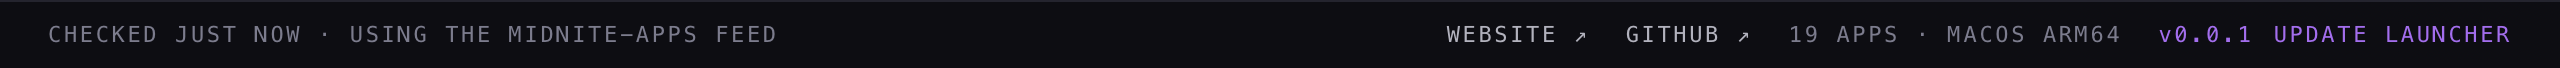
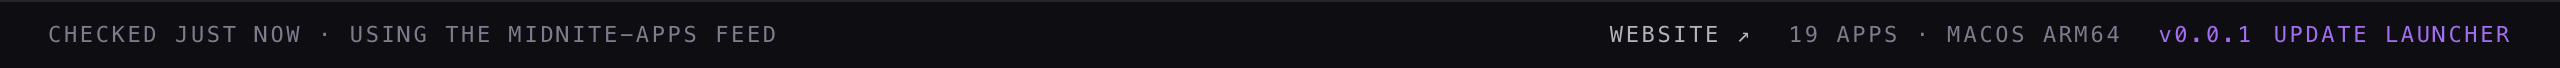
fix(launcher): self-update review fixes — refuse sudo installs up front, surface installer failures, guard in-flight installs; drop the footer GitHub link

Changed region(s): [[0.5625, 0.3824, 0.6875, 0.6176]]

diff --git a/apps/launcher/src/main/self-update.ts b/apps/launcher/src/main/self-update.ts
@@ -1,9 +1,9 @@
 import { spawn as nodeSpawn } from 'node:child_process';
-import { closeSync, mkdirSync, openSync } from 'node:fs';
+import { accessSync, closeSync, constants, existsSync, mkdirSync, openSync } from 'node:fs';
 import { dirname } from 'node:path';
 
 import type { LauncherResult, LauncherSelfStatus } from '../common/bridge';
-import { LAUNCHER_FEED_URL, LAUNCHER_INSTALL_URL } from './constants';
+import { INSTALL_DIR, LAUNCHER_BUNDLE_PATH, LAUNCHER_INSTALL_URL, LAUNCHER_VERSION_URL } from './constants';
 import { fetchLatestRelease } from './feed';
 
 /**
@@ -20,7 +20,7 @@ import { fetchLatestRelease } from './feed';
 export async function launcherSelfStatus(
   deps: { current: string; isPackaged: boolean; fetchImpl?: typeof fetch },
 ): Promise<LauncherSelfStatus> {
-  const feed = await fetchLatestRelease(LAUNCHER_FEED_URL, deps.fetchImpl);
+  const feed = await fetchLatestRelease(LAUNCHER_VERSION_URL, deps.fetchImpl);
   return { current: deps.current, latest: feed.release, feedError: feed.error, canUpdate: deps.isPackaged };
 }
 
@@ -28,7 +28,11 @@ type SpawnLike = (
   command: string,
   args: readonly string[],
   options: { detached: boolean; stdio: ['ignore', number, number]; env: NodeJS.ProcessEnv },
-) => { unref(): void; once(event: 'error', listener: (error: Error) => void): unknown };
+) => {
+  unref(): void;
+  once(event: 'error', listener: (error: Error) => void): unknown;
+  once(event: 'exit', listener: (code: number | null) => void): unknown;
+};
 
 export type SelfUpdateDeps = {
   isPackaged: boolean;
@@ -36,27 +40,54 @@ export type SelfUpdateDeps = {
   logPath: string;
   spawn?: SpawnLike;
   env?: NodeJS.ProcessEnv;
+  /** Whether this user can write `path` — `install.sh`'s own `[ -w ]` test, which decides whether it needs sudo. */
+  isWritable?: (path: string) => boolean;
+  /** The installer exited non-zero; on success it quits this app, so nobody is left to hear about it. */
+  onFailed?: (message: string) => void;
 };
+
+function writable(path: string): boolean {
+  try {
+    accessSync(path, constants.W_OK);
+    return true;
+  } catch {
+    return false;
+  }
+}
+
+/** The variables `install.sh` reads; inherited from a shell they would pin a version or skip the reopen. */
+const INSTALLER_ENV = ['MIDNITE_LAUNCHER_NO_OPEN', 'MIDNITE_LAUNCHER_VERSION'];
 
 /** The URL is an argument (`$1`), never spliced into the script string. */
 export const SELF_UPDATE_SCRIPT = 'curl -fsSL "$1" | sh';
 
 export function startSelfUpdate(deps: SelfUpdateDeps): LauncherResult {
   if (!deps.isPackaged) return { ok: false, message: 'A dev run cannot update itself — build and install the launcher instead.' };
+  const isWritable = deps.isWritable ?? writable;
+  // Detached, with no terminal, `sudo` cannot prompt — and install.sh would only find that out after
+  // it had already quit this app. So the case that needs a password is refused up front.
+  if (!isWritable(INSTALL_DIR) || (existsSync(LAUNCHER_BUNDLE_PATH) && !isWritable(LAUNCHER_BUNDLE_PATH))) {
+    return {
+      ok: false,
+      message: `Updating needs an administrator password here — run \`curl -fsSL ${LAUNCHER_INSTALL_URL} | sh\` in Terminal.`,
+    };
+  }
   const spawn = deps.spawn ?? (nodeSpawn as unknown as SpawnLike);
   let log: number | null = null;
   try {
     mkdirSync(dirname(deps.logPath), { recursive: true });
     log = openSync(deps.logPath, 'a');
-    // `MIDNITE_LAUNCHER_NO_OPEN` would leave the user with no launcher at all after it quits.
     const env = { ...(deps.env ?? process.env) };
-    delete env['MIDNITE_LAUNCHER_NO_OPEN'];
+    for (const name of INSTALLER_ENV) delete env[name];
     const child = spawn('/bin/sh', ['-c', SELF_UPDATE_SCRIPT, 'sh', LAUNCHER_INSTALL_URL], {
       detached: true,
       stdio: ['ignore', log, log],
       env,
     });
-    child.once('error', () => undefined);
+    child.once('error', (error) => deps.onFailed?.(`The update could not start: ${error.message}`));
+    child.once('exit', (code) => {
+      if (code !== 0) deps.onFailed?.(`The update failed (exit ${code ?? 'signal'}) — see ${deps.logPath}.`);
+    });
     child.unref();
     return { ok: true };
   } catch (error) {

diff --git a/apps/launcher/src/renderer/app.tsx b/apps/launcher/src/renderer/app.tsx
@@ -69,13 +69,22 @@ export function App() {
   const [removingAll, setRemovingAll] = useState(false);
   const [toast, setToast] = useState<{ message: string; tone: 'error' | 'info' } | null>(null);
   const [self, setSelf] = useState<LauncherSelfStatus | null>(null);
-  const [selfBannerDismissed, setSelfBannerDismissed] = useState(false);
+  /** The version whose banner was dismissed — a newer one found by Check again shows again. */
+  const [selfBannerDismissed, setSelfBannerDismissed] = useState<string | null>(null);
   const [selfUpdating, setSelfUpdating] = useState(false);
 
   const checkSelf = useCallback(() => {
     void bridge.self.status().then(setSelf, () => undefined);
   }, [bridge]);
   useEffect(checkSelf, [checkSelf]);
+  useEffect(
+    () =>
+      bridge.self.onFailed((message) => {
+        setSelfUpdating(false);
+        setToast({ message, tone: 'error' });
+      }),
+    [bridge],
+  );
 
   // A `midnite://` link for an app that cannot open yet lands here: its detail sheet, which is where Install lives.
   useEffect(() => {
@@ -178,6 +187,17 @@ export function App() {
     });
   };
   const selfBehind = self?.latest != null && compareVersions(self.latest.version, self.current) > 0;
+  // install.sh quits this app, which would cut an app install off half-written.
+  const anyInstalling = APPS.some((app) => viewOf(app).installing);
+  const selfUpdateDisabled = self === null || !self.canUpdate || selfUpdating || anyInstalling;
+  const selfUpdateTitle =
+    self?.canUpdate === false
+      ? 'A dev run cannot update itself'
+      : anyInstalling
+        ? 'Wait for the install in progress to finish'
+        : selfBehind
+          ? `Update to Midnite Apps ${self?.latest?.version}`
+          : 'Re-install the latest Midnite Apps';
 
   const removable = useMemo(() => removableApps(viewOf), [viewOf]);
   // One at a time, through the same per-app ops as each tile's own Move to Trash, so every guard
@@ -255,15 +275,15 @@ export function App() {
       </header>
 
       <main className="content">
-        {selfBehind && !selfBannerDismissed && self?.latest && (
+        {selfBehind && self?.latest && selfBannerDismissed !== self.latest.version && (
           <div className="banner" role="status">
             <span className="pill pill-solid">Update</span>
             <span className="banner-text">Midnite Apps {self.latest.version} is available.</span>
             <div className="banner-actions">
-              <button type="button" className="btn btn-primary btn-compact" onClick={updateSelf} disabled={selfUpdating || !self.canUpdate}>
+              <button type="button" className="btn btn-primary btn-compact" onClick={updateSelf} disabled={selfUpdateDisabled} title={selfUpdateTitle}>
                 {selfUpdating ? 'Updating…' : 'Update launcher'}
               </button>
-              <button type="button" className="btn btn-icon" aria-label="Dismiss" onClick={() => setSelfBannerDismissed(true)}>
+              <button type="button" className="btn btn-icon" aria-label="Dismiss" onClick={() => setSelfBannerDismissed(self.latest?.version ?? null)}>
                 <LuX size={14} />
               </button>
             </div>
@@ -349,9 +369,6 @@ export function App() {
           <button type="button" className="link eyebrow" onClick={() => void bridge.links.open('website')}>
             Website ↗
           </button>
-          <button type="button" className="link eyebrow" onClick={() => void bridge.links.open('github')}>
-            GitHub ↗
-          </button>
           <span className="eyebrow">
             {APPS.length} apps · macOS {bridge.platform.arch}
           </span>
@@ -363,8 +380,8 @@ export function App() {
               type="button"
               className="link eyebrow"
               onClick={updateSelf}
-              disabled={selfUpdating || self?.canUpdate === false}
-              title={self?.canUpdate === false ? 'A dev run cannot update itself' : 'Re-install the latest Midnite Apps'}
+              disabled={selfUpdateDisabled}
+              title={selfUpdateTitle}
             >
               {selfUpdating ? 'Updating…' : 'Update launcher'}
             </button>

diff --git a/apps/launcher/src/main/self-update.test.ts b/apps/launcher/src/main/self-update.test.ts
@@ -16,9 +16,15 @@ afterEach(async () => {
 
 function fakeSpawn() {
   const unref = vi.fn();
-  const spawn = vi.fn(() => ({ unref, once: vi.fn() }));
-  return { spawn, unref };
+  const listeners = new Map<string, (arg: never) => void>();
+  const spawn = vi.fn(() => ({
+    unref,
+    once: (event: string, listener: (arg: never) => void) => void listeners.set(event, listener),
+  }));
+  return { spawn, unref, emit: (event: 'exit' | 'error', arg: unknown) => listeners.get(event)?.(arg as never) };
 }
+
+const writable = () => true;
 
 describe('startSelfUpdate', () => {
   it('refuses in a dev run and spawns nothing', () => {
@@ -34,7 +40,8 @@ describe('startSelfUpdate', () => {
       isPackaged: true,
       logPath: join(dir, 'logs', 'self-update.log'),
       spawn,
-      env: { PATH: '/usr/bin:/bin', MIDNITE_LAUNCHER_NO_OPEN: '1' },
+      isWritable: writable,
+      env: { PATH: '/usr/bin:/bin', MIDNITE_LAUNCHER_NO_OPEN: '1', MIDNITE_LAUNCHER_VERSION: '0.0.3' },
     });
     expect(result).toEqual({ ok: true });
     expect(spawn).toHaveBeenCalledTimes(1);
@@ -42,7 +49,7 @@ describe('startSelfUpdate', () => {
     expect(command).toBe('/bin/sh');
     expect(args).toEqual(['-c', SELF_UPDATE_SCRIPT, 'sh', 'https://midnite-apps.vercel.app/install.sh']);
     expect(options.detached).toBe(true);
-    // The installer reopens the launcher it quit — an inherited NO_OPEN would leave none running.
+    // An inherited NO_OPEN would leave no launcher running; an inherited VERSION would pin an old one.
     expect(options.env).toEqual({ PATH: '/usr/bin:/bin' });
     expect(unref).toHaveBeenCalled();
   });
@@ -51,7 +58,29 @@ describe('startSelfUpdate', () => {
     const spawn = vi.fn(() => {
       throw new Error('EAGAIN');
     });
-    expect(startSelfUpdate({ isPackaged: true, logPath: join(dir, 'self-update.log'), spawn })).toEqual({ ok: false, message: 'EAGAIN' });
+    expect(startSelfUpdate({ isPackaged: true, logPath: join(dir, 'self-update.log'), spawn, isWritable: writable })).toEqual({
+      ok: false,
+      message: 'EAGAIN',
+    });
+  });
+
+  it('refuses up front when the install needs sudo, which a detached installer cannot prompt for', () => {
+    const { spawn } = fakeSpawn();
+    const result = startSelfUpdate({ isPackaged: true, logPath: join(dir, 'self-update.log'), spawn, isWritable: () => false });
+    expect(result.ok).toBe(false);
+    expect(result.ok === false && result.message).toMatch(/administrator password.*curl -fsSL https:\/\/midnite-apps\.vercel\.app\/install\.sh \| sh/);
+    expect(spawn).not.toHaveBeenCalled();
+  });
+
+  it('reports an installer that exits non-zero, and stays quiet on success', () => {
+    const { spawn, emit } = fakeSpawn();
+    const onFailed = vi.fn();
+    const logPath = join(dir, 'self-update.log');
+    startSelfUpdate({ isPackaged: true, logPath, spawn, isWritable: writable, onFailed });
+    emit('exit', 0);
+    expect(onFailed).not.toHaveBeenCalled();
+    emit('exit', 22);
+    expect(onFailed).toHaveBeenCalledWith(`The update failed (exit 22) — see ${logPath}.`);
   });
 });
 

diff --git a/apps/launcher/src/renderer/app.test.tsx b/apps/launcher/src/renderer/app.test.tsx
@@ -66,6 +66,24 @@ describe('<App>', () => {
     expect(await screen.findByText(/it will quit and reopen/)).toBeDefined();
   });
 
+  it('re-enables Update and shows the error when a started update fails', async () => {
+    const bridge = createMockBridge('launcher-update');
+    let fail: (message: string) => void = () => undefined;
+    bridge.self.onFailed = (listener) => {
+      fail = listener;
+      return () => undefined;
+    };
+    window.midniteLauncher = bridge as LauncherBridge;
+    render(<App />);
+    await screen.findByText('Midnite Apps 0.0.2 is available.');
+    const [banner] = screen.getAllByRole('button', { name: 'Update launcher' });
+    fireEvent.click(banner!);
+    await waitFor(() => expect(screen.getAllByRole('button', { name: 'Updating…' })).toHaveLength(2));
+    act(() => fail('The update failed (exit 22)'));
+    expect(await screen.findByText('The update failed (exit 22)')).toBeDefined();
+    expect(screen.getAllByRole('button', { name: 'Update launcher' }).every((b) => !(b as HTMLButtonElement).disabled)).toBe(true);
+  });
+
   it('shows no launcher banner when the launcher is current, but keeps the status-bar Update', async () => {
     mount('installed');
     await screen.findByLabelText('Open Midnite Coder');
@@ -75,6 +93,7 @@ describe('<App>', () => {
     expect(update.parentElement?.textContent).toBe('v0.0.1Update launcher');
     expect(screen.queryByText(/Launcher 0\.0\.1/)).toBeNull();
     expect(screen.queryByText('Midnite app suite')).toBeNull();
+    expect(screen.queryByRole('button', { name: /GitHub/ })).toBeNull();
   });
 
   it('shows the update banner and the Updates filter count when Studio is behind', async () => {

diff --git a/apps/launcher/src/common/bridge.ts b/apps/launcher/src/common/bridge.ts
@@ -33,6 +33,8 @@ export const LAUNCHER_CHANNELS = {
   selfStatus: 'launcher:self:status',
   /** Re-runs the launcher installer, which quits this app, replaces it and reopens it. */
   selfUpdate: 'launcher:self:update',
+  /** main → renderer: the installer exited non-zero before it could quit this app. */
+  selfUpdateFailed: 'launcher:self:update-failed',
   linkOpen: 'launcher:link:open',
   themeSet: 'launcher:theme:set',
 } as const;
@@ -94,7 +96,7 @@ export type AppsStatus = {
 
 export type AppInstallProgress = { id: AppId; progress: InstallProgress };
 
-export const EXTERNAL_LINKS = ['website', 'github', 'releases', 'notes', 'download'] as const;
+export const EXTERNAL_LINKS = ['website', 'releases', 'notes', 'download'] as const;
 export type ExternalLink = (typeof EXTERNAL_LINKS)[number];
 
 export const THEME_SOURCES = ['system', 'light', 'dark'] as const;
@@ -128,6 +130,8 @@ export type LauncherBridge = {
     status(): Promise<LauncherSelfStatus>;
     /** Starts the installer and returns; on success this app quits shortly after. Never throws. */
     update(): Promise<LauncherResult>;
+    /** Fires with a message when a started update failed and this app is still running. */
+    onFailed(listener: (message: string) => void): () => void;
   };
   links: {
     open(link: ExternalLink): Promise<LauncherResult>;

diff --git a/apps/launcher/src/main/constants.ts b/apps/launcher/src/main/constants.ts
@@ -31,11 +31,12 @@ export function studioZipUrl(version: string): string {
 export const MIN_FRAMEWORK_BYTES = 100 * 1024 * 1024;
 
 export const SITE_URL = 'https://midnite-apps.vercel.app';
-export const GITHUB_URL = `https://github.com/${RELEASES_REPO}`;
 export const RELEASES_URL = `https://github.com/${RELEASES_REPO}/releases`;
 export const DOWNLOAD_URL = `${SITE_URL}/download/`;
 
 /** The launcher's own release feed — `midnite-launcher/version.json`, written per release beside Studio's. */
-export const LAUNCHER_FEED_URL = `https://raw.githubusercontent.com/${RELEASES_REPO}/main/midnite-launcher/version.json`;
+export const LAUNCHER_VERSION_URL = `https://raw.githubusercontent.com/${RELEASES_REPO}/main/midnite-launcher/version.json`;
 /** The launcher installer the website serves (a verbatim copy of `midnite-launcher/install.sh`) — what Update re-runs. */
 export const LAUNCHER_INSTALL_URL = `${SITE_URL}/install.sh`;
+/** Where `install.sh` puts the launcher (`$DEST/$APP`). */
+export const LAUNCHER_BUNDLE_PATH = join(INSTALL_DIR, 'Midnite Apps.app');

diff --git a/apps/launcher/src/main/ipc.ts b/apps/launcher/src/main/ipc.ts
@@ -4,7 +4,7 @@ import { z } from 'zod';
 import { EXTERNAL_LINKS, LAUNCHER_CHANNELS, THEME_SOURCES, type LauncherResult, type LauncherSelfStatus } from '../common/bridge';
 import { APP_IDS, type AppId } from '../common/catalog';
 import type { createAppsOps } from './bundles/apps-ops';
-import { DOWNLOAD_URL, GITHUB_URL, RELEASES_URL, SITE_URL } from './constants';
+import { DOWNLOAD_URL, RELEASES_URL, SITE_URL } from './constants';
 import { fetchStudioRelease } from './feed';
 import { installStudio } from './install';
 import { appLink } from './links';
@@ -119,9 +119,6 @@ export function registerIpc(getWindow: () => BrowserWindow | null, apps: AppsIpc
     switch (parsed.data) {
       case 'website':
         url = SITE_URL;
-        break;
-      case 'github':
-        url = GITHUB_URL;
         break;
       case 'releases':
         url = RELEASES_URL;

diff --git a/apps/launcher/src/main/index.ts b/apps/launcher/src/main/index.ts
@@ -186,7 +186,12 @@ if (!app.requestSingleInstanceLock()) {
     }
     const selfIpc: SelfIpc = {
       status: () => launcherSelfStatus({ current: app.getVersion(), isPackaged: app.isPackaged }),
-      update: () => startSelfUpdate({ isPackaged: app.isPackaged, logPath: join(app.getPath('logs'), 'self-update.log') }),
+      update: () =>
+        startSelfUpdate({
+          isPackaged: app.isPackaged,
+          logPath: join(app.getPath('logs'), 'self-update.log'),
+          onFailed: (message) => mainWindow?.webContents.send(LAUNCHER_CHANNELS.selfUpdateFailed, message),
+        }),
     };
     registerIpc(() => mainWindow, {
       ops: createAppsOps({

diff --git a/apps/launcher/src/preload/index.ts b/apps/launcher/src/preload/index.ts
@@ -40,6 +40,11 @@ const bridge: LauncherBridge = {
   self: {
     status: () => ipcRenderer.invoke(LAUNCHER_CHANNELS.selfStatus),
     update: () => ipcRenderer.invoke(LAUNCHER_CHANNELS.selfUpdate),
+    onFailed: (listener) => {
+      const handler = (_event: unknown, message: string) => listener(message);
+      ipcRenderer.on(LAUNCHER_CHANNELS.selfUpdateFailed, handler);
+      return () => ipcRenderer.removeListener(LAUNCHER_CHANNELS.selfUpdateFailed, handler);
+    },
   },
   links: {
     open: (link) => ipcRenderer.invoke(LAUNCHER_CHANNELS.linkOpen, link),

diff --git a/apps/launcher/src/renderer/mock-bridge.ts b/apps/launcher/src/renderer/mock-bridge.ts
@@ -107,6 +107,7 @@ export function createMockBridge(mode: string | null): LauncherBridge {
         canUpdate: true,
       }),
       update: ok,
+      onFailed: () => () => undefined,
     },
     links: { open: ok },
     theme: { set: () => undefined },

diff --git a/apps/launcher/README.md b/apps/launcher/README.md
@@ -51,4 +51,7 @@ An ad-hoc-signed launcher cannot swap itself in place (Squirrel.Mac refuses a bu
 does not match the running one), so `updater.ts` only checks. **Update launcher** — a banner when
 `midnite-launcher/version.json` is newer, and always in the status bar — runs `self-update.ts`
 instead: the website's `install.sh`, detached, which quits this app, replaces the bundle and
-reopens it. Its output lands in `~/Library/Logs/Midnite Apps/self-update.log`.
+reopens it. Its output lands in `~/Library/Logs/Midnite Apps/self-update.log`, and a non-zero exit
+(the launcher is still running, so it failed before the quit) comes back as an error toast. It is
+refused up front when `/Applications` or the bundle needs `sudo` — a detached installer has no
+terminal to prompt in — and while an app install is in flight, which the quit would cut short.
